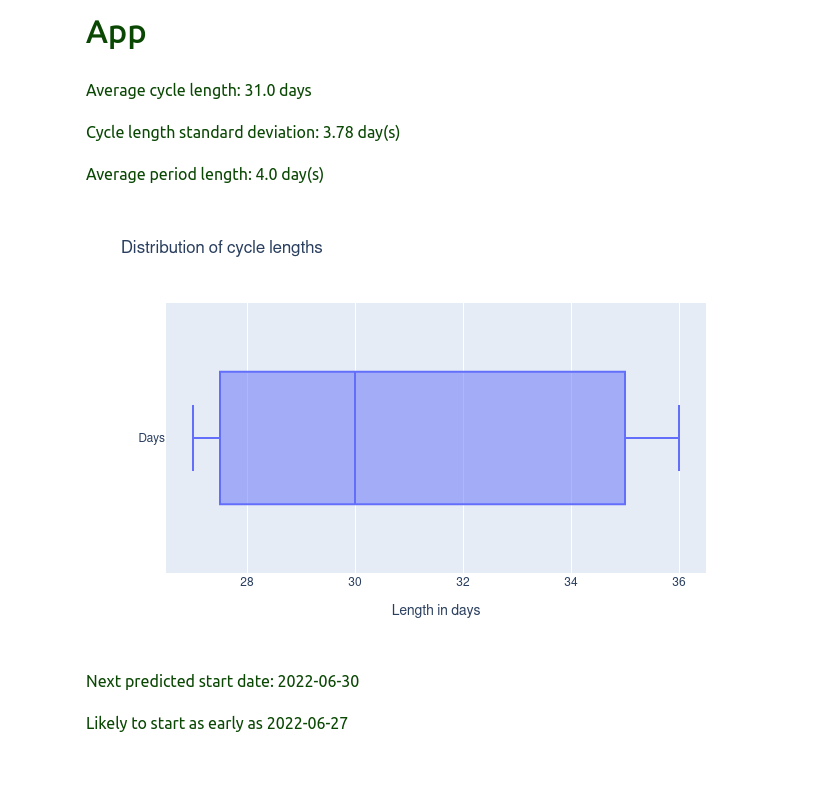
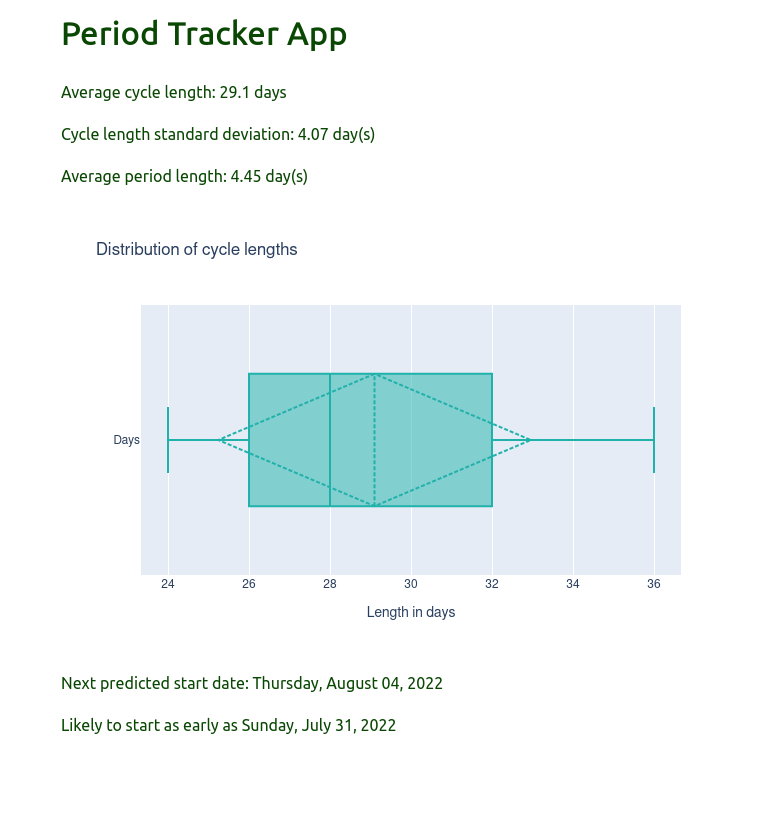
woo looks a bit better

diff --git a/app.py b/app.py
@@ -2,6 +2,7 @@ import dash
 from dash import dcc
 from dash import html
 import plotly.express as px
+import plotly.graph_objects as go
 import pandas as pd
 import numpy as np
 from datetime import timedelta, date
@@ -11,7 +12,7 @@ import sys
 app = dash.Dash(__name__)
 
 filename = sys.argv[1]
-print(filename)
+print("Reading from: " + filename)
 
 data = pd.read_csv(filename)
 data['Date'] = pd.to_datetime(data['Date']).dt.date
@@ -41,29 +42,37 @@ pred = pred[len(data) - 1]
 if (today > pred):
      pred = today
 
-# print("Likely to start as early as " + str(pred - timedelta(days = std_len)))
+
+early = pred - timedelta(days = std_len)
+if (today > early):
+    early = today
+# print("Likely to start as early as " + str(early))
 # print("Next predicted start date: " + str(pred))
 
 
+fig = go.Figure()
+fig.add_trace(go.Box(
+    x=lengths,
+    name='Days',
+    marker_color='lightseagreen',
+    boxmean='sd' # represent mean
+))
 
-fig = px.box(lengths,
-        orientation = 'h',
-        title = 'Distribution of cycle lengths',
-        labels = {
-            'value': 'Length in days',
-            'variable' : ''
-        }
+fig.update_layout(
+    xaxis=dict(title='Length in days', zeroline=False),
+    title=dict(text='Distribution of cycle lengths')
 )
 
 app.layout = html.Div([
-    html.H1("App"),
+    html.H1("Period Tracker App"),
     html.P("Average cycle length: " + str(avg_len) + " days"),
     html.P("Cycle length standard deviation: " + str(std_len) + " day(s)"),
-    html.P("Average period length: " + str(data.iloc[:, 1].mean()) + " day(s)"),
+    html.P("Average period length: " + str(round(data.iloc[:, 1].mean(), 2)) + " day(s)"),
     # html.P("Distribution of cycle lengths"),
-    dcc.Graph(id="life-exp-vs-gdp", figure=fig),
-    html.P("Next predicted start date: " + str(pred)),
-    html.P("Likely to start as early as " + str(pred - timedelta(days = std_len)))
+    dcc.Graph(id="box-lengths", figure=fig),
+    html.P("Next predicted start date: " + pred.strftime("%A, %B %d, %Y")),
+    html.P("Likely to start as early as " + early.strftime("%A, %B %d, %Y"))
+
 ])
 
 

diff --git a/README.md b/README.md
@@ -11,12 +11,13 @@ run `python app.py <filename>`.
 This data file should contain all the data you want as a CSV.
 I've left a testing dataset called `data.csv` as a starter!
 
-After running that, you'll get something like the following (based off some testing data):
+Head over to (probably) `http://127.0.0.1:8050` where you'll see the app served!
+After  that, you'll get something like the following (based off the `data.csv` testing data):
 ![Sample demo](sample.png)
 
-# Future
-More features coming soon! I'm looking to add better formatting for dates,
-and having a GUI way to supply/modify files (I'm guessing people won't want to edit a CSV every time).
+## Future
+More features coming soon! I'm looking to have a GUI way to supply/modify files
+(I'm guessing people won't want to edit a CSV every time).
 I'm also guessing people might want to track other symptoms, so I'll try to find a way
 to incorporate/visualize those as well! If you have any other ideas or tips, feel free
 to add an issue! I'll also try to make it a bit prettier - it's a bit _too_ bare-bones right now.
